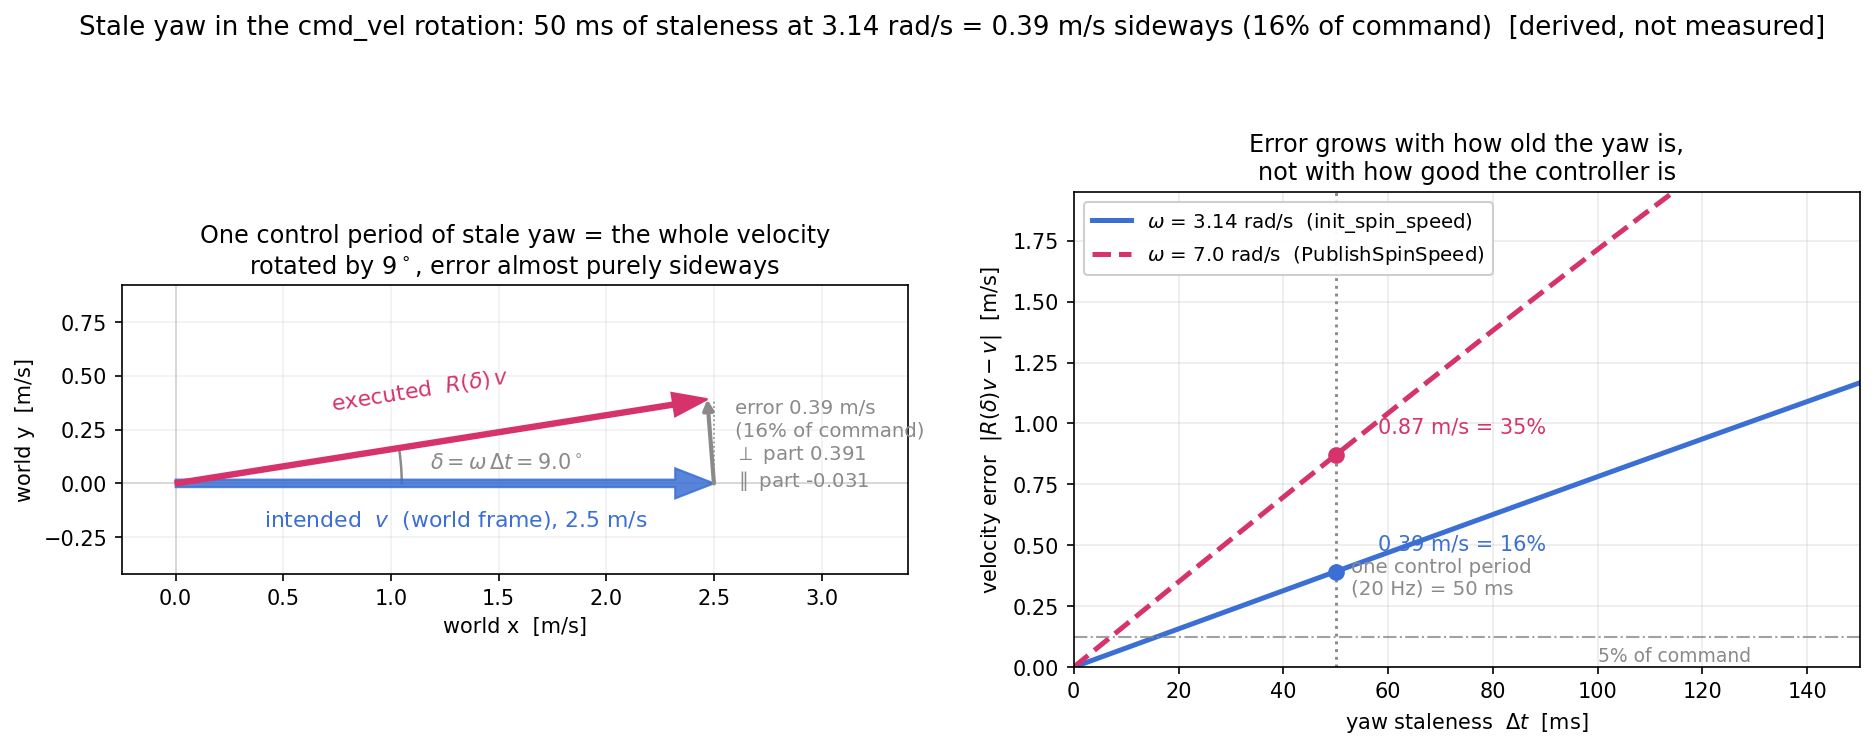
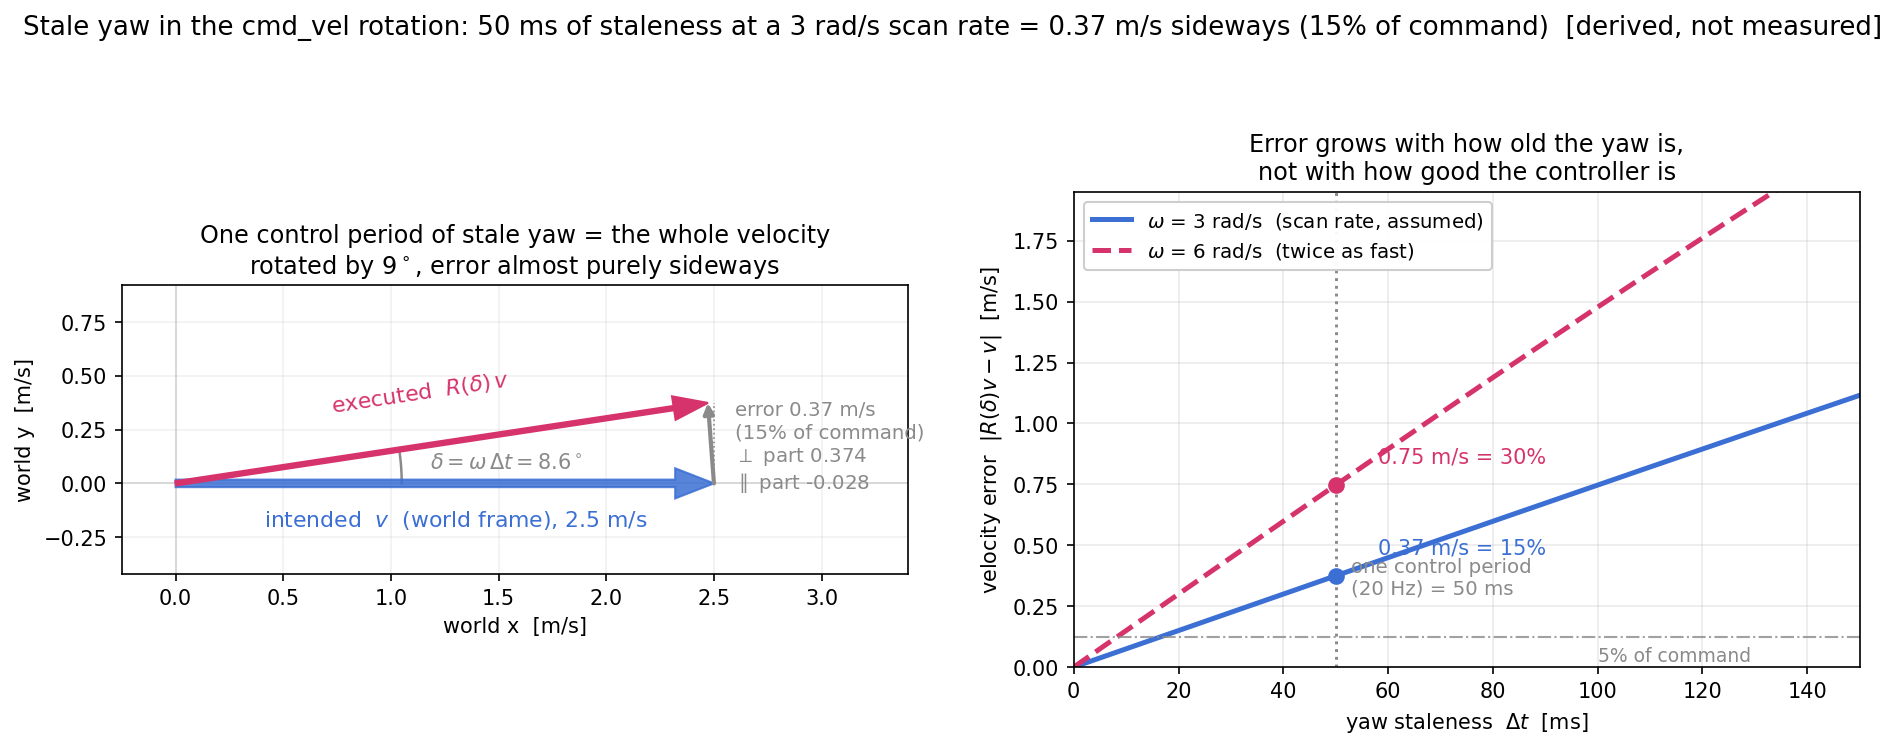
fix(advanced): 订正 yaw 陈旧度推导中的角速率归属
原文把参数文件里的底盘固定自旋速度代入了速度参考系的偏航角速率。
按该功能包 README，cmd_spin 与 init_spin_speed 控制的是底盘旋转并叠加到
输出角速度上，而参考系剧烈变化的场景是云台自旋扫描，两者不是同一个量。

改为显式取一个假设的扫描速率并标明非参数读数，连带重算：
偏差角 8.6 度、误差 0.37 m/s 占指令 15%，垂直分量 0.37、平行分量 -0.03；
扫描速率翻倍时涨到 0.75 m/s、30%。脚本与插图同步重生成。

diff --git a/examples/advanced/adv_sentry_yaw_staleness.py b/examples/advanced/adv_sentry_yaw_staleness.py
@@ -3,9 +3,9 @@
 
 Setting (all numbers read out of SMBU pb2025_sentry_nav reality/nav2_params.yaml):
   controller_frequency : 20.0 Hz   -> one control period = 50 ms
-  init_spin_speed      : 3.14 rad/s
+  scan rate (assumed)  : 3 rad/s   <- gimbal yaw rate, NOT the chassis spin param
   velocity_smoother max_velocity[0] : 2.5 m/s
-and spin_speed 7.0 rad/s as used by the PublishSpinSpeed node in
+and a doubled scan rate of 6 rad/s. NOTE: init_spin_speed / PublishSpinSpeed are
 pb2025_sentry_behavior/behavior_trees/rmul_2025.xml.
 
 Model (derivation, not measurement):
@@ -34,8 +34,8 @@ GRAY = "#8A8A8A"
 
 V = 2.5          # m/s, velocity_smoother max_velocity[0]
 T_CTRL = 0.05    # s, 1 / controller_frequency (20 Hz)
-OMEGA_A = 3.14   # rad/s, init_spin_speed
-OMEGA_B = 7.0    # rad/s, PublishSpinSpeed in rmul_2025.xml
+OMEGA_A = 3.0    # rad/s, assumed gimbal scan rate (speed-reference-frame yaw rate)
+OMEGA_B = 6.0    # rad/s, same at doubled scan rate
 
 
 def rot(a):
@@ -48,7 +48,7 @@ def main():
         os.path.join(here, "..", "..", "chapters", "5.Advanced", "images",
                      "adv-sentry-yaw-staleness.png"))
 
-    delta = OMEGA_A * T_CTRL              # 0.157 rad = 9.0 deg
+    delta = OMEGA_A * T_CTRL              # 0.150 rad = 8.6 deg
     v_want = np.array([V, 0.0])
     v_exec = rot(delta) @ v_want
     err = v_exec - v_want
@@ -71,7 +71,7 @@ def main():
 
     arc = np.linspace(0, delta, 60)
     ax1.plot(1.05 * np.cos(arc), 1.05 * np.sin(arc), color=GRAY, lw=1.2)
-    ax1.text(1.18, 0.07, r"$\delta = \omega\,\Delta t = 9.0^\circ$",
+    ax1.text(1.18, 0.07, r"$\delta = \omega\,\Delta t = 8.6^\circ$",
              color=GRAY, fontsize=10)
 
     ax1.text(V * 0.52, -0.20, "intended  $v$  (world frame), 2.5 m/s",
@@ -100,8 +100,8 @@ def main():
 
     # ---------- right: error vs staleness ----------
     dt = np.linspace(0, 0.15, 400)
-    for omega, color, ls, tag in ((OMEGA_A, BLUE, "-", r"$\omega$ = 3.14 rad/s  (init_spin_speed)"),
-                                  (OMEGA_B, MAGENTA, "--", r"$\omega$ = 7.0 rad/s  (PublishSpinSpeed)")):
+    for omega, color, ls, tag in ((OMEGA_A, BLUE, "-", r"$\omega$ = 3 rad/s  (scan rate, assumed)"),
+                                  (OMEGA_B, MAGENTA, "--", r"$\omega$ = 6 rad/s  (twice as fast)")):
         e = 2 * V * np.sin(omega * dt / 2)
         ax2.plot(dt * 1000, e, color=color, ls=ls, lw=2.4, label=tag)
 
@@ -128,8 +128,8 @@ def main():
     ax2.grid(alpha=0.25)
     ax2.legend(loc="upper left", fontsize=9.5, framealpha=0.95)
 
-    fig.suptitle("Stale yaw in the cmd_vel rotation: 50 ms of staleness at 3.14 rad/s "
-                 "= 0.39 m/s sideways (16% of command)  [derived, not measured]",
+    fig.suptitle("Stale yaw in the cmd_vel rotation: 50 ms of staleness at a 3 rad/s scan rate "
+                 "= 0.37 m/s sideways (15% of command)  [derived, not measured]",
                  fontsize=12.5, y=0.995)
     fig.tight_layout(rect=(0, 0, 1, 0.93))
     fig.savefig(out, dpi=150, bbox_inches="tight")
@@ -137,7 +137,7 @@ def main():
     print(f"delta={delta:.4f} rad = {np.degrees(delta):.2f} deg")
     print(f"|e|={err_mag:.4f} m/s  perp={err_perp:.4f}  para={err_para:.4f}  "
           f"ratio={err_mag / V * 100:.2f}%")
-    print(f"omega=7.0: |e|={2 * V * np.sin(OMEGA_B * T_CTRL / 2):.4f} m/s "
+    print(f"omega=6.0: |e|={2 * V * np.sin(OMEGA_B * T_CTRL / 2):.4f} m/s "
           f"({2 * V * np.sin(OMEGA_B * T_CTRL / 2) / V * 100:.1f}%)")
 
 
